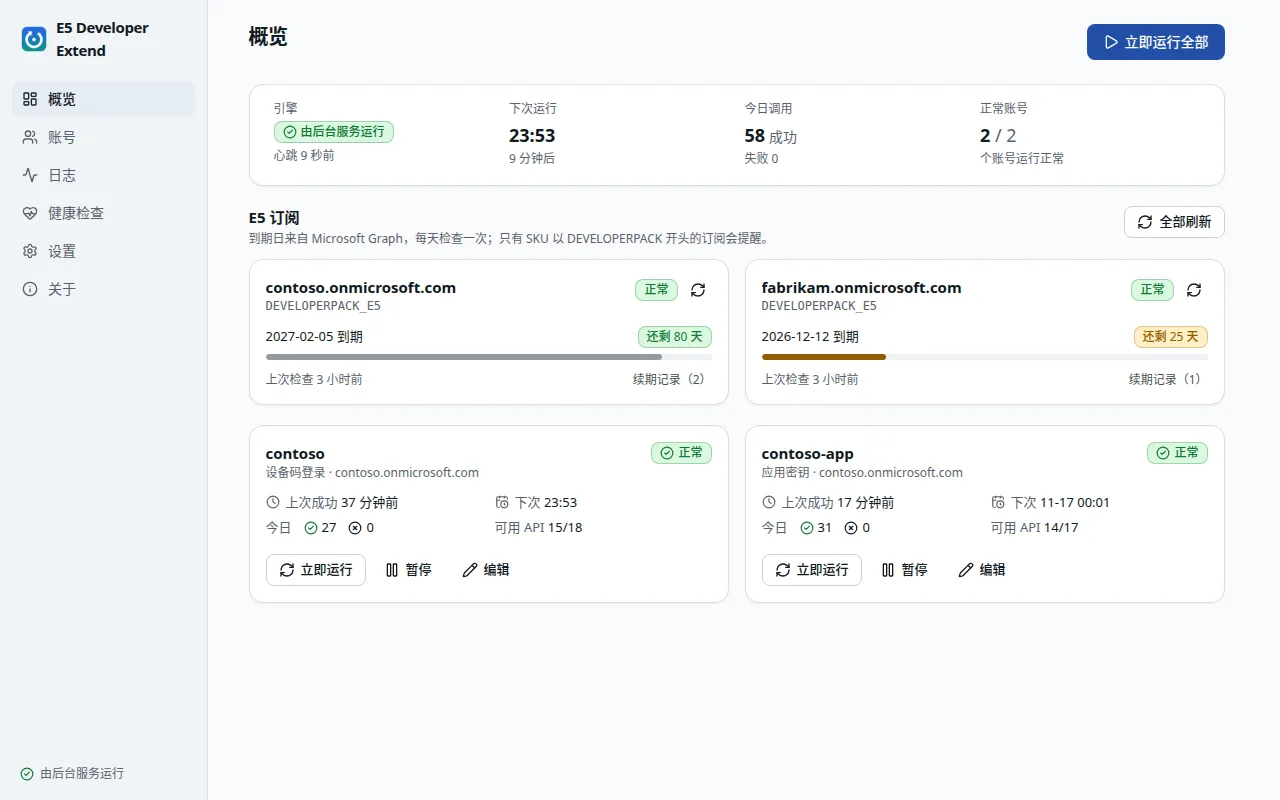
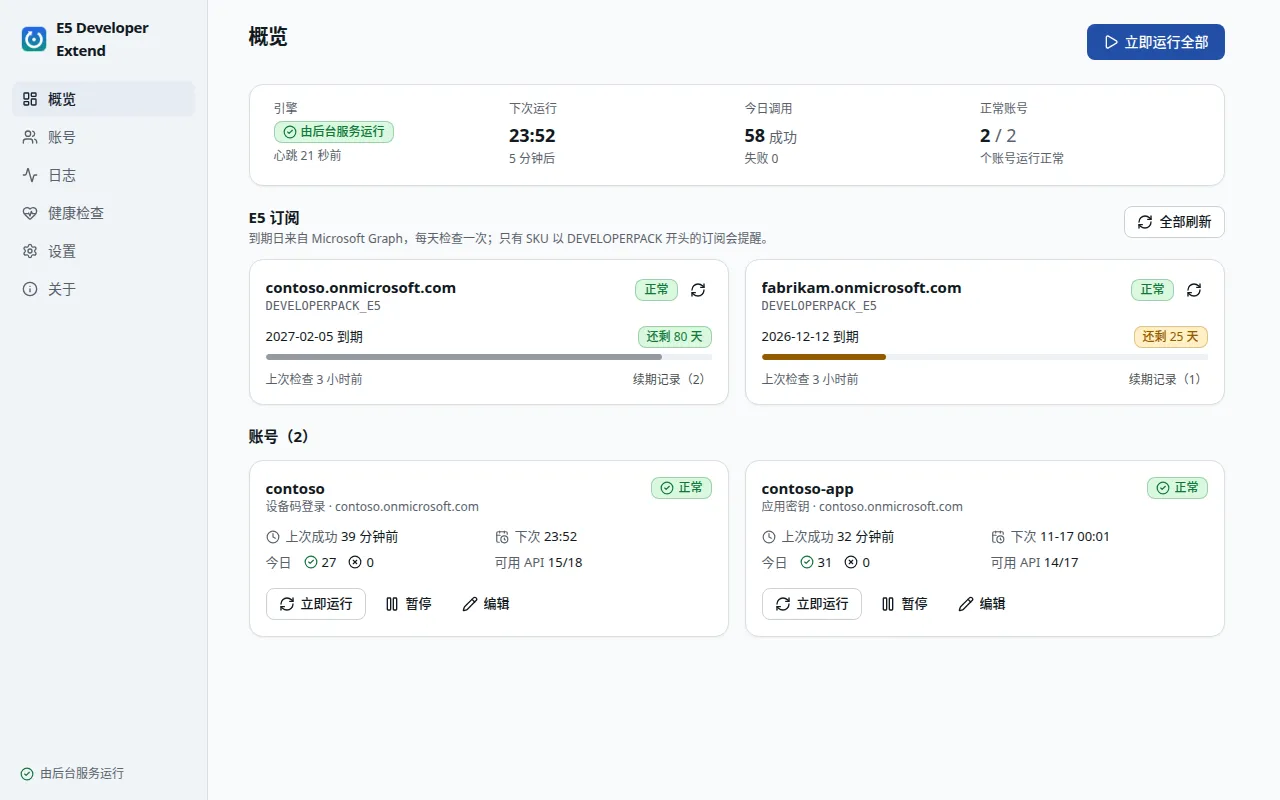
Give the overview account cards their own section header with the count

diff --git a/gui/frontend/src/pages/Overview.tsx b/gui/frontend/src/pages/Overview.tsx
@@ -130,6 +130,8 @@ export function Overview() {
           </div>
         </EmptyBlock>
       ) : (
+        <section aria-labelledby="accounts-title">
+        <h2 id="accounts-title" className="mb-3 text-[15px] font-semibold">{t("overview.accountsTitle", { count: accounts.length })}</h2>
         <div className="grid grid-cols-[repeat(auto-fill,minmax(320px,1fr))] gap-4">
           {accounts.map((a) => (
             <AccountCard
@@ -147,6 +149,7 @@ export function Overview() {
             />
           ))}
         </div>
+        </section>
       )}
     </>
   );

diff --git a/gui/frontend/src/i18n/en.ts b/gui/frontend/src/i18n/en.ts
@@ -546,6 +546,7 @@ export const en: Dict = {
   "event.subscription_expiring": "Subscription about to expire",
   "event.subscription_status": "Subscription status changed",
   "event.subscription_renewed": "Subscription renewed",
+  "overview.accountsTitle": "Accounts ({count})",
   "sub.title": "E5 subscription",
   "sub.desc": "End dates come from Microsoft Graph and are checked once a day; only subscriptions whose SKU starts with {skus} alert.",
   "sub.refresh": "Refresh all",

diff --git a/gui/frontend/src/i18n/zh.ts b/gui/frontend/src/i18n/zh.ts
@@ -546,6 +546,7 @@ export const zh = {
   "event.subscription_expiring": "E5 订阅快到期",
   "event.subscription_status": "E5 订阅状态变化",
   "event.subscription_renewed": "E5 订阅已续期",
+  "overview.accountsTitle": "账号（{count}）",
   "sub.title": "E5 订阅",
   "sub.desc": "到期日来自 Microsoft Graph，每天检查一次；只有 SKU 以 {skus} 开头的订阅会提醒。",
   "sub.refresh": "全部刷新",
